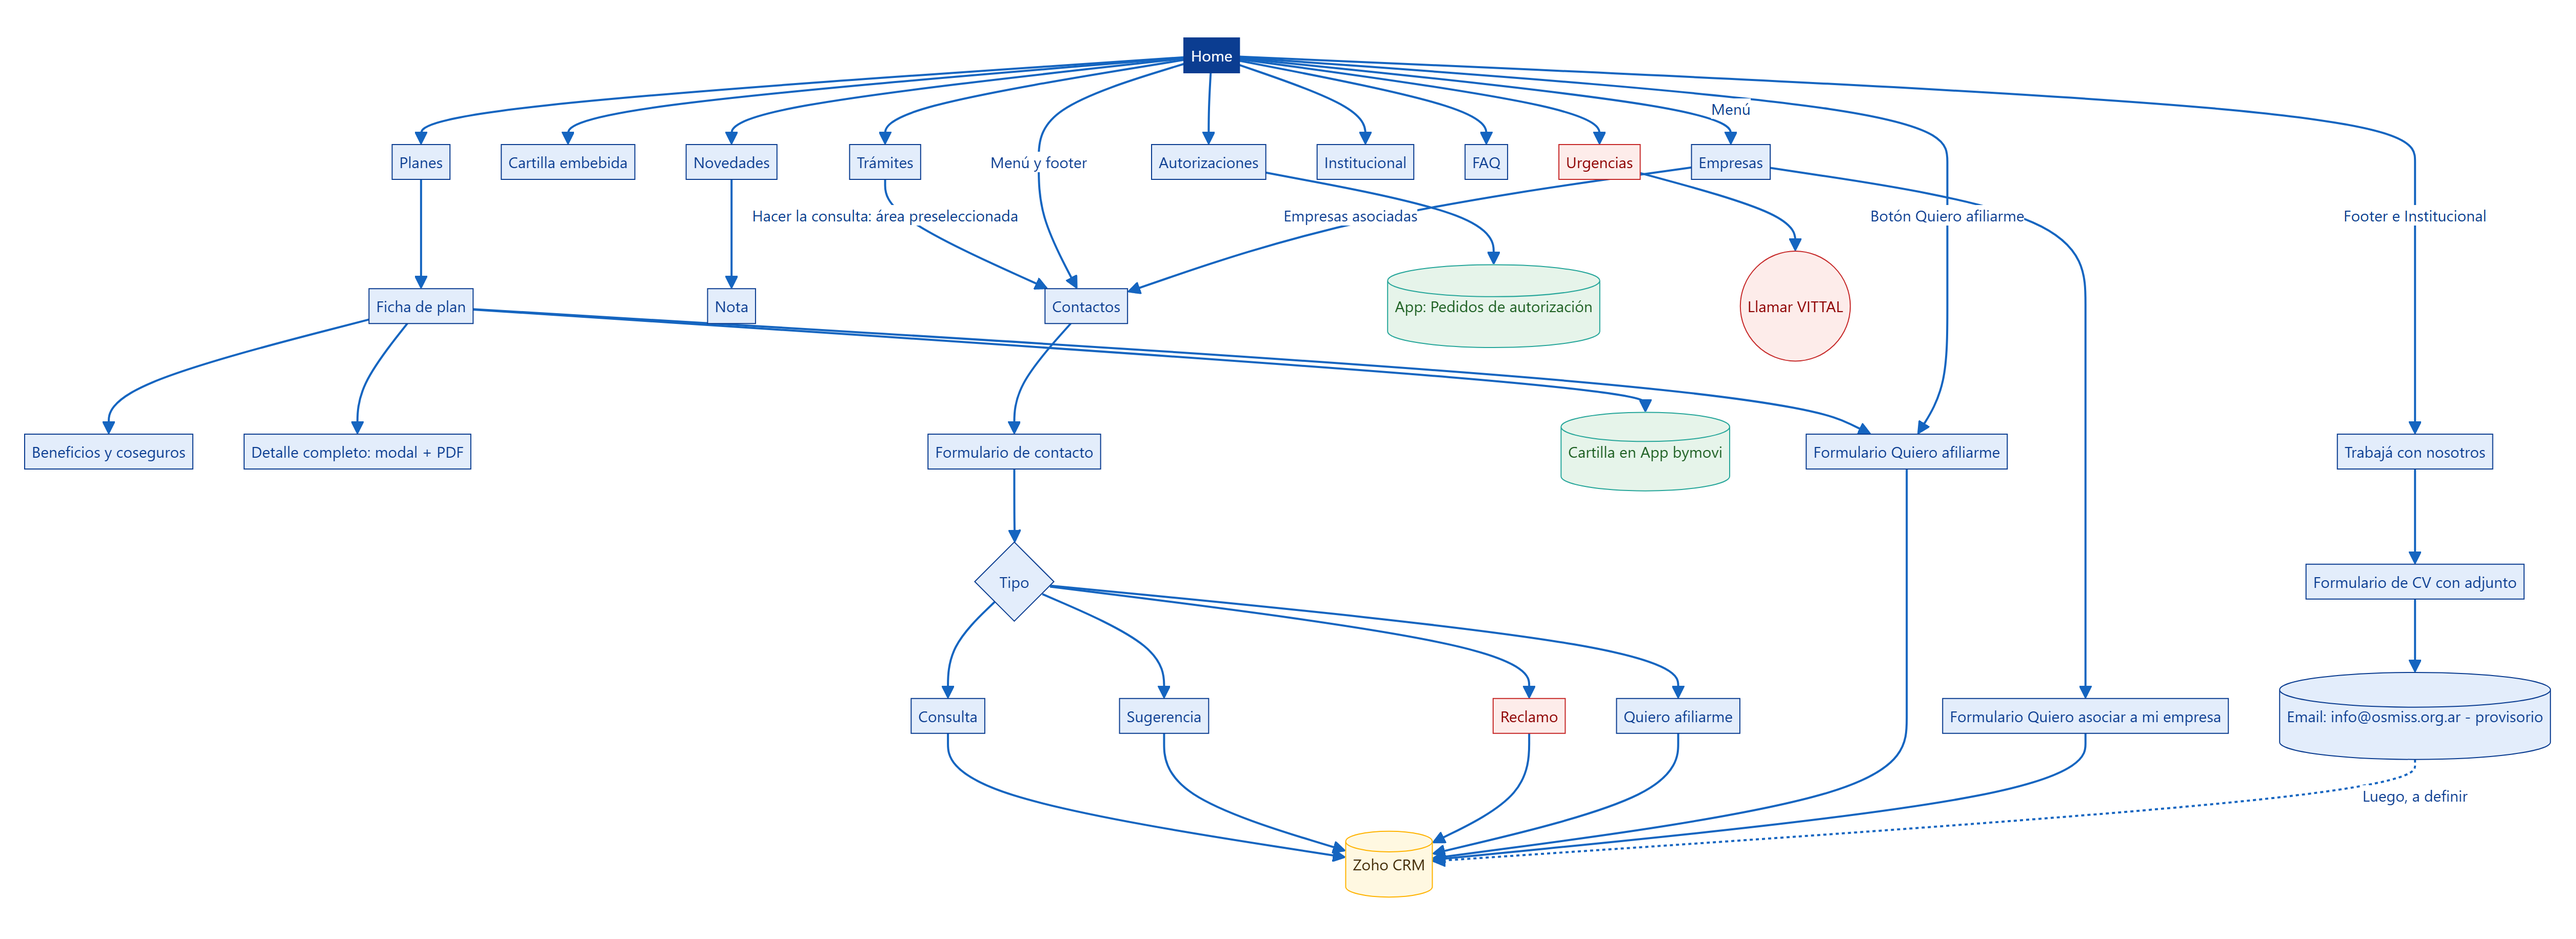
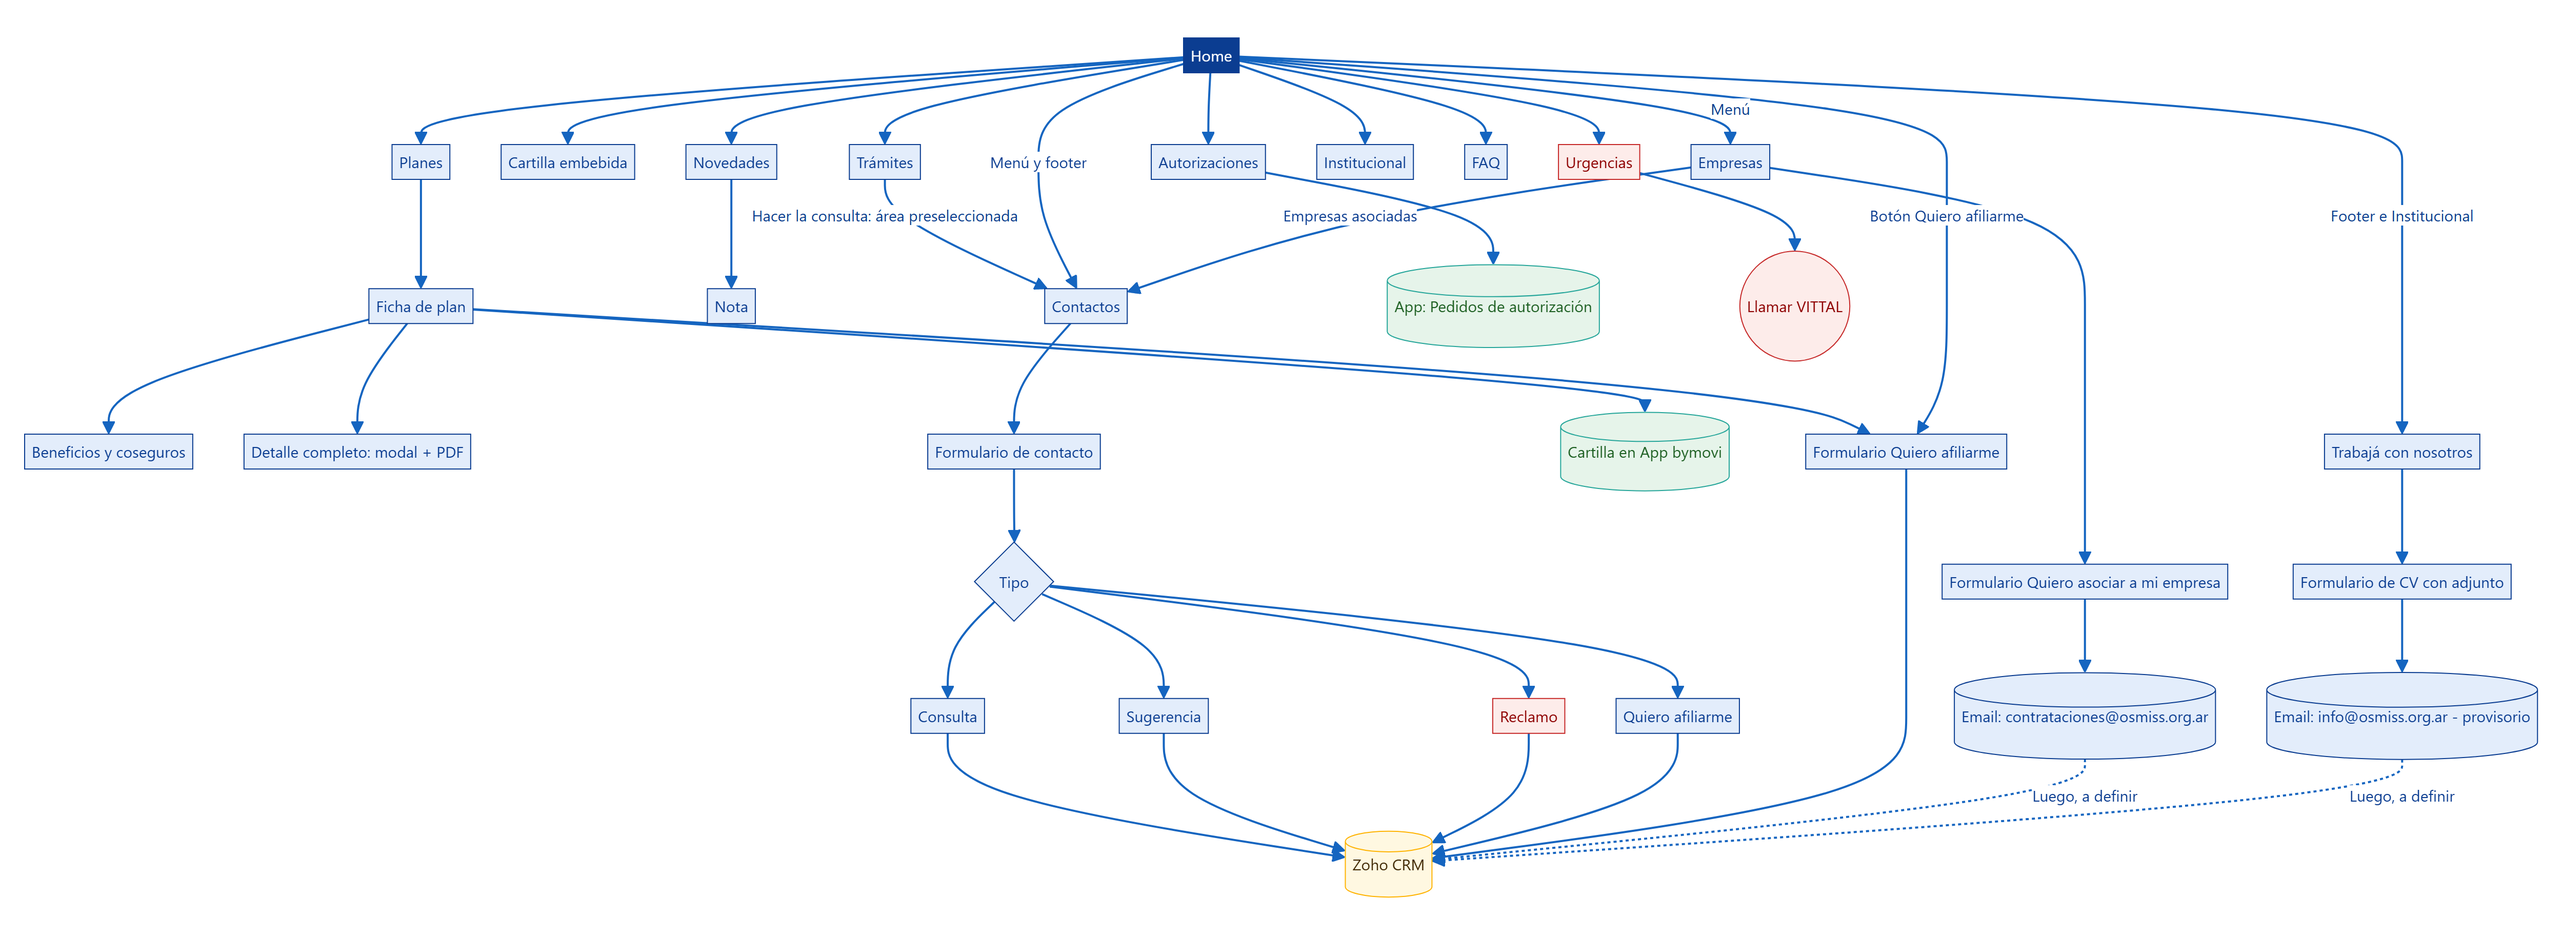
Empresas: el formulario va a contrataciones@osmiss.org.ar (hasta definir el CRM)
- config.empresas.email y campo destinatario en el formulario.
- Link mailto alternativo debajo del formulario.
- Mapa del sitio y diagrama: email y luego CRM (a definir).

diff --git a/src/pages/Empresas.jsx b/src/pages/Empresas.jsx
@@ -49,6 +49,7 @@ export default function Empresas() {
               textoBoton="Enviar solicitud"
               mensajeOk="¡Gracias por tu interés! Recibimos los datos de tu empresa y un asesor se va a comunicar con vos a la brevedad."
             >
+              <input type="hidden" name="destinatario" value={EMP.email} />
               <div className="fila">
                 <Campo label="Razón social" name="razonSocial" required />
                 <Campo
@@ -86,6 +87,12 @@ export default function Empresas() {
               <Campo label="Comentarios" name="comentarios" type="textarea" />
             </Formulario>
           </div>
+          <p className="cartilla-pie">
+            ¿Preferís escribirnos? Envianos los datos de tu empresa a{" "}
+            <a href={"mailto:" + EMP.email + "?subject=" + encodeURIComponent("Quiero asociar a mi empresa")}>
+              <strong>{EMP.email}</strong>
+            </a>.
+          </p>
         </div>
       </section>
 

diff --git a/src/data.js b/src/data.js
@@ -49,6 +49,9 @@ export const DATA = {
     // Empresas (#empresas): formulario "Quiero asociar a mi empresa" (formulario: "empresa") y
     // atención a empleadores ya asociados. Fuente: https://www.osmiss.org.ar/empresas.html
     empresas: {
+      // Destino del formulario "Quiero asociar a mi empresa", por ahora por email
+      // hasta que se defina cómo ingresa al CRM.
+      email: "contrataciones@osmiss.org.ar",
       // Beneficios: textos de ejemplo orientados a captar empresas; validar con OSMISS.
       beneficios: [
         { icono: "👥", titulo: "Cobertura para todo tu equipo", texto: "Planes para tus empleados y su grupo familiar, con atención en todo el país." },

diff --git a/MAPA-DEL-SITIO.md b/MAPA-DEL-SITIO.md
@@ -90,7 +90,8 @@ flowchart TD
     CV --> RH[(Email: info@osmiss.org.ar - provisorio)]
     H -->|Menú| EM[Empresas]
     EM --> FE[Formulario Quiero asociar a mi empresa]
-    FE --> Z
+    FE --> EE[(Email: contrataciones@osmiss.org.ar)]
+    EE -.->|Luego, a definir| Z
     EM -->|Empresas asociadas| CO
     RH -.->|Luego, a definir| Z
 ```
@@ -181,7 +182,8 @@ Orden de bloques:
 ### 3.10 bis Empresas `/empresas`
 - Encabezado **"Quiero asociar a mi empresa"** + botones "Quiero asociar a mi empresa" (baja al formulario) y "Ver planes".
 - "¿Por qué elegir OSMISS para tu empresa?" (3 beneficios, textos a validar).
-- **Formulario "Quiero asociar a mi empresa"** (ver [Formularios](#5-formularios)) → Zoho CRM.
+- **Formulario "Quiero asociar a mi empresa"** (ver [Formularios](#5-formularios)) → por ahora a **contrataciones@osmiss.org.ar**;
+  luego ingresará al CRM (a definir). Debajo del formulario se ofrece también escribir directo a esa dirección (mailto).
 - **¿Tu empresa ya está asociada?** (contenido de osmiss.org.ar/empresas.html): Control de aportes y Afiliaciones,
   cada uno con "Hacer la consulta" (→ /contactos/{area}) y su email; teléfonos y horario; aviso de que solo
   Casa Central confirma afiliaciones e imputación de aportes.
@@ -259,7 +261,7 @@ que indica de dónde viene. En Contactos, el campo `tipo` indica la categoría e
 | Contactos → **Quiero afiliarme** | `formulario: "contacto"`, `tipo: "Quiero afiliarme"` | Lead / potencial afiliado |
 | Contactos → **Consulta** | `formulario: "contacto"`, `tipo: "Consulta"`, `area` | Consulta, derivada por Área |
 | Contactos → **Sugerencia** | `formulario: "contacto"`, `tipo: "Sugerencia"`, `area` | Sugerencia |
-| **Quiero asociar a mi empresa** | `formulario: "empresa"`, `cuit`, `empleados` | Lead de empresa (B2B), a confirmar con el proveedor de Zoho |
+| **Quiero asociar a mi empresa** | `formulario: "empresa"`, `destinatario: "contrataciones@osmiss.org.ar"`, `cuit`, `empleados` | **Por ahora por email a contrataciones@osmiss.org.ar**; luego, lead de empresa (B2B) en el CRM (a definir) |
 | Contactos → **Reclamo** | `formulario: "contacto"`, `tipo: "Reclamo"`, `area` | Caso / ticket de reclamo, derivado por Área |
 
 Ejemplo de un reclamo:
@@ -338,7 +340,7 @@ y las descripciones completas en `src/descripciones.js`. Los PDF se generan con 
 - **OSMISS-500**: el sitio actual y la App solo mencionan los planes 100, 150 y 200. Hoy el 500 usa el cuadro de beneficios y la descripción completa del 200.
 - **Logos de prestadores** destacados (IMAC, Centro Médico Monserrat, Sanatorio del Oeste, San Camilo, Anchorena, Bazterrica, FLENI, Favaloro, Arauz, GEDYT, Sanatorio Modelo Caseros): OSMISS los gestiona con cada prestador.
 - **URLs de Fipem y Funsalud**.
-- **Empresas**: beneficios para empresas y rangos de cantidad de empleados (textos de ejemplo); confirmar que el formulario de empresas entre en la integración con Zoho (la propuesta menciona afiliación, reclamos y consultas).
+- **Empresas**: el formulario "Quiero asociar a mi empresa" se envía por ahora por email a **contrataciones@osmiss.org.ar** (el backend debe reenviarlo a esa casilla); definir cómo ingresa luego al CRM (no está en el alcance de Zoho de la propuesta). Validar también los beneficios y los rangos de cantidad de empleados (textos de ejemplo).
 - **Textos médicos** de Urgencias y Autorizaciones (pasos, números públicos 107/911).
 - Datos de la Dirección ("Secretaria de Actas", tildes en apellidos).
 - Aviso "DNU 297/2020 — suspendido el ingreso a Casa Central" del sitio actual: confirmar que ya no corresponde (no se incluyó).
